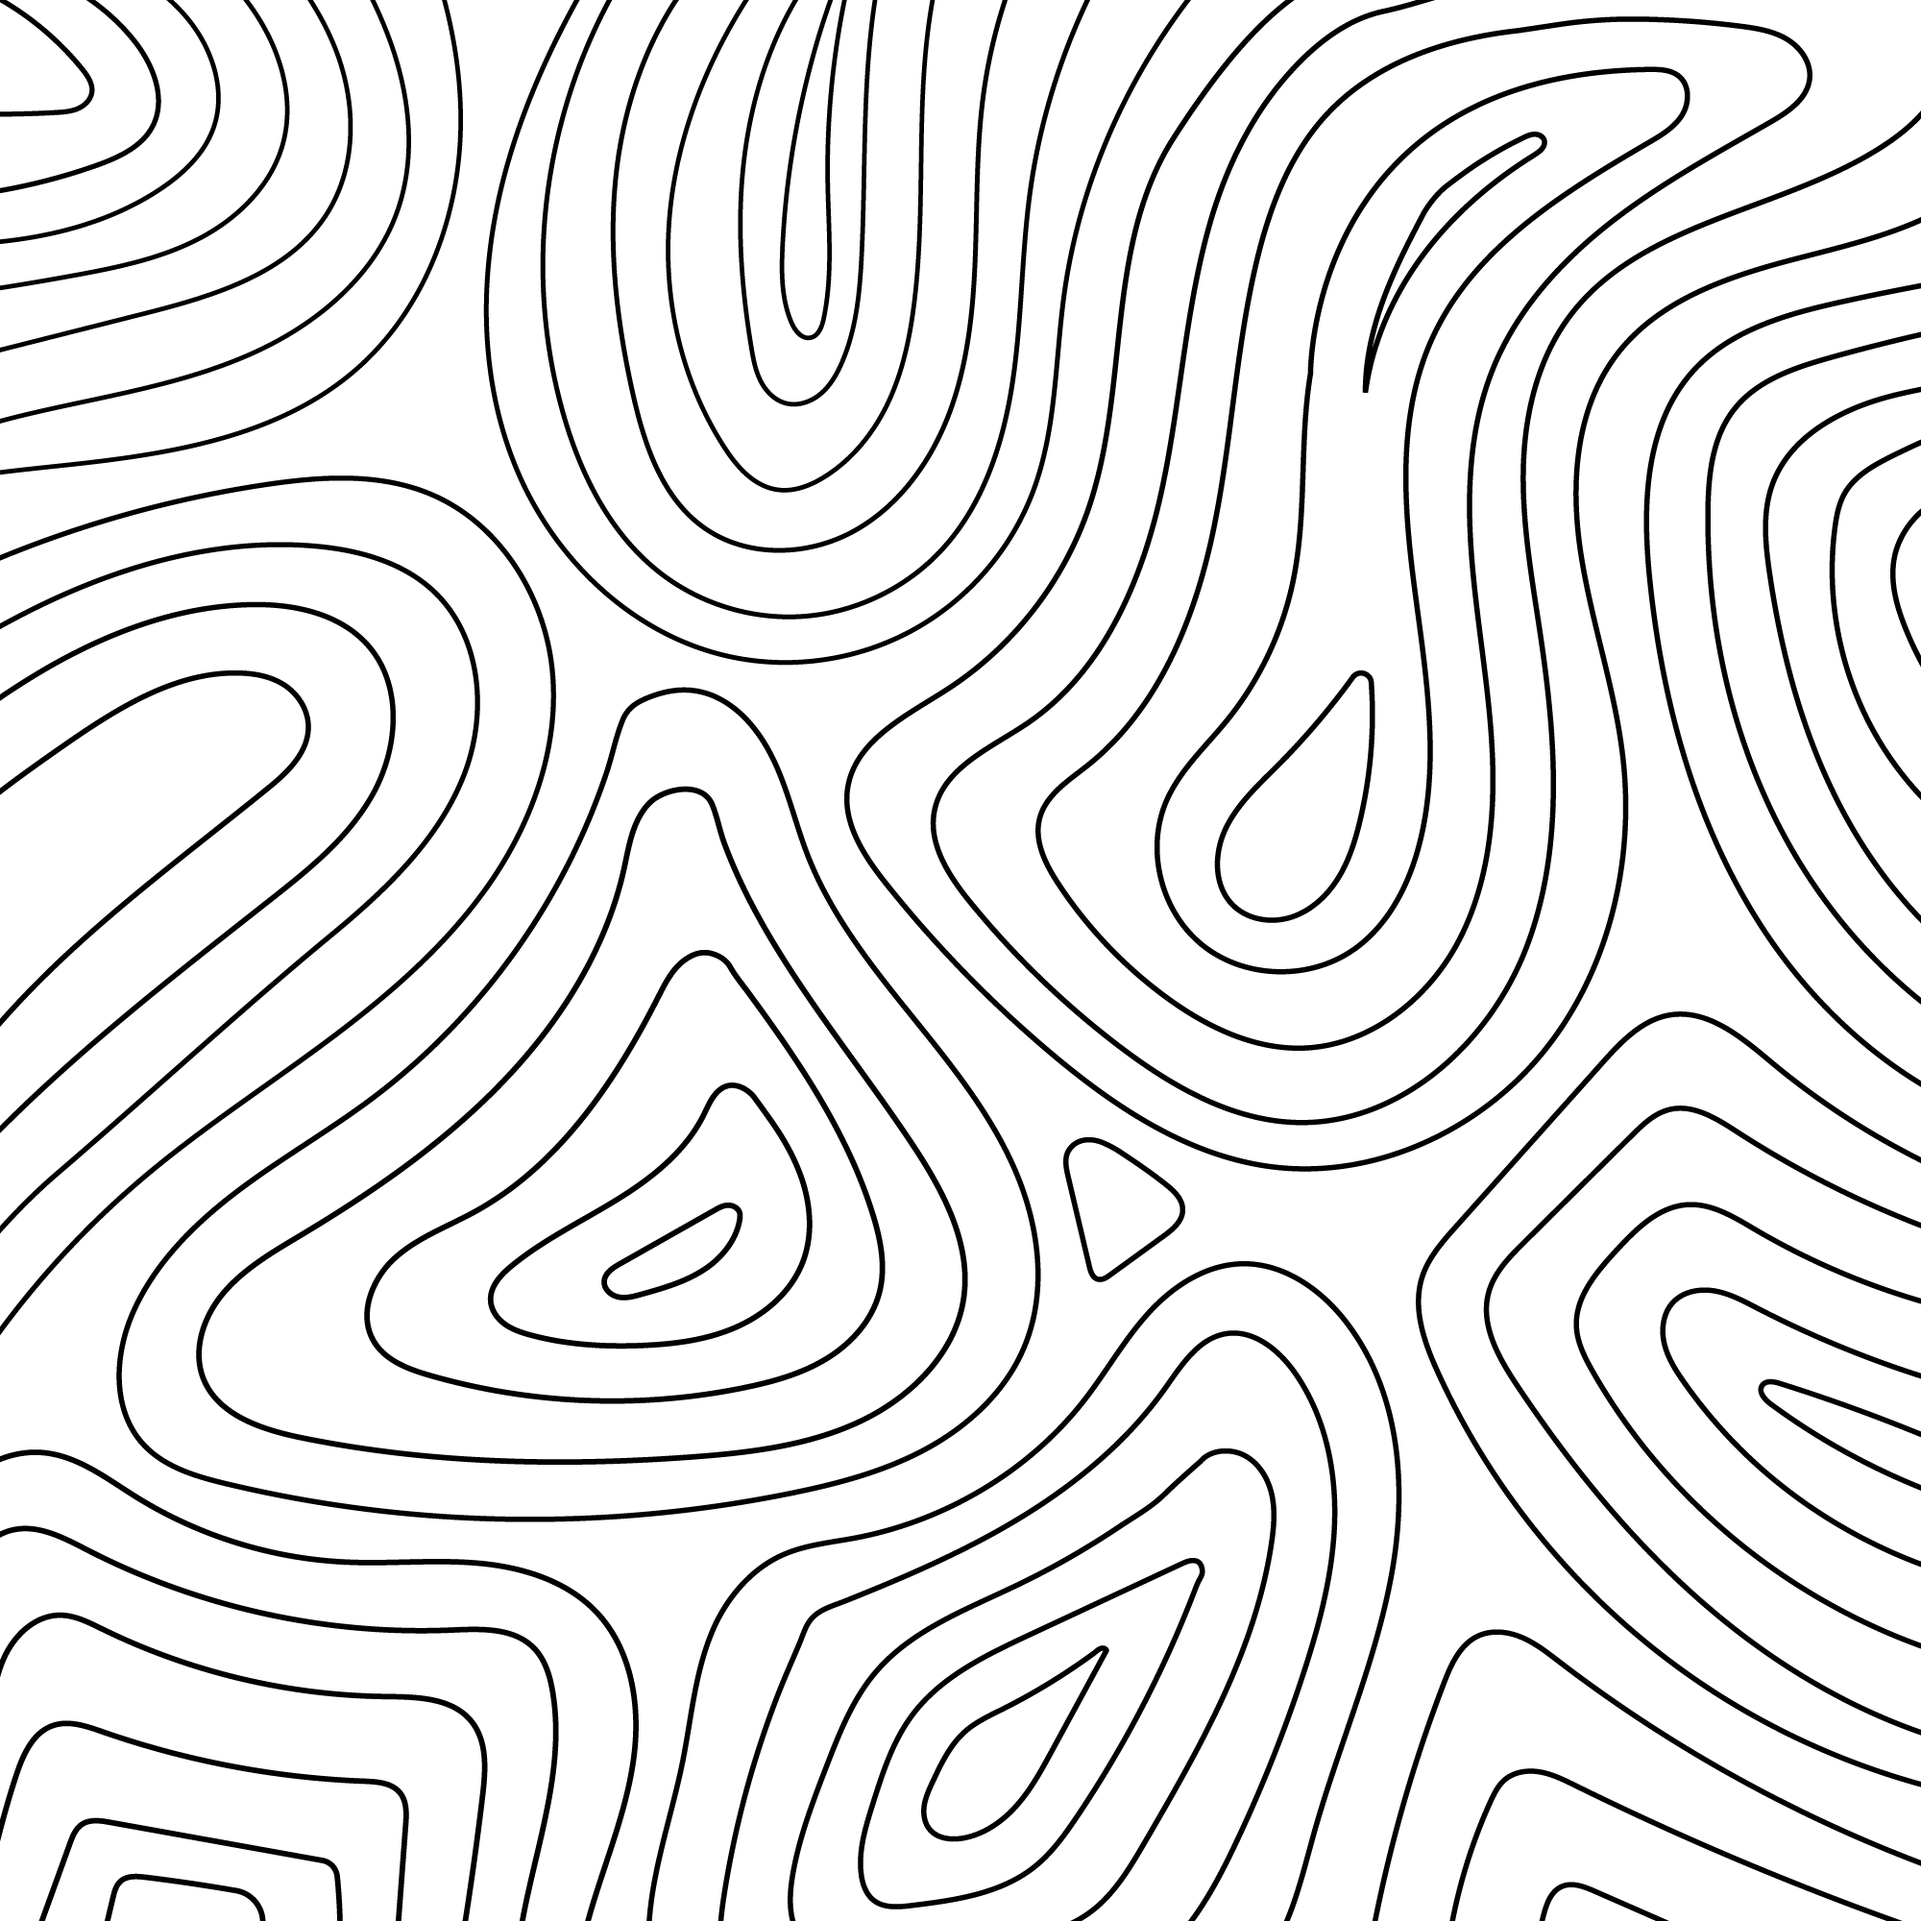
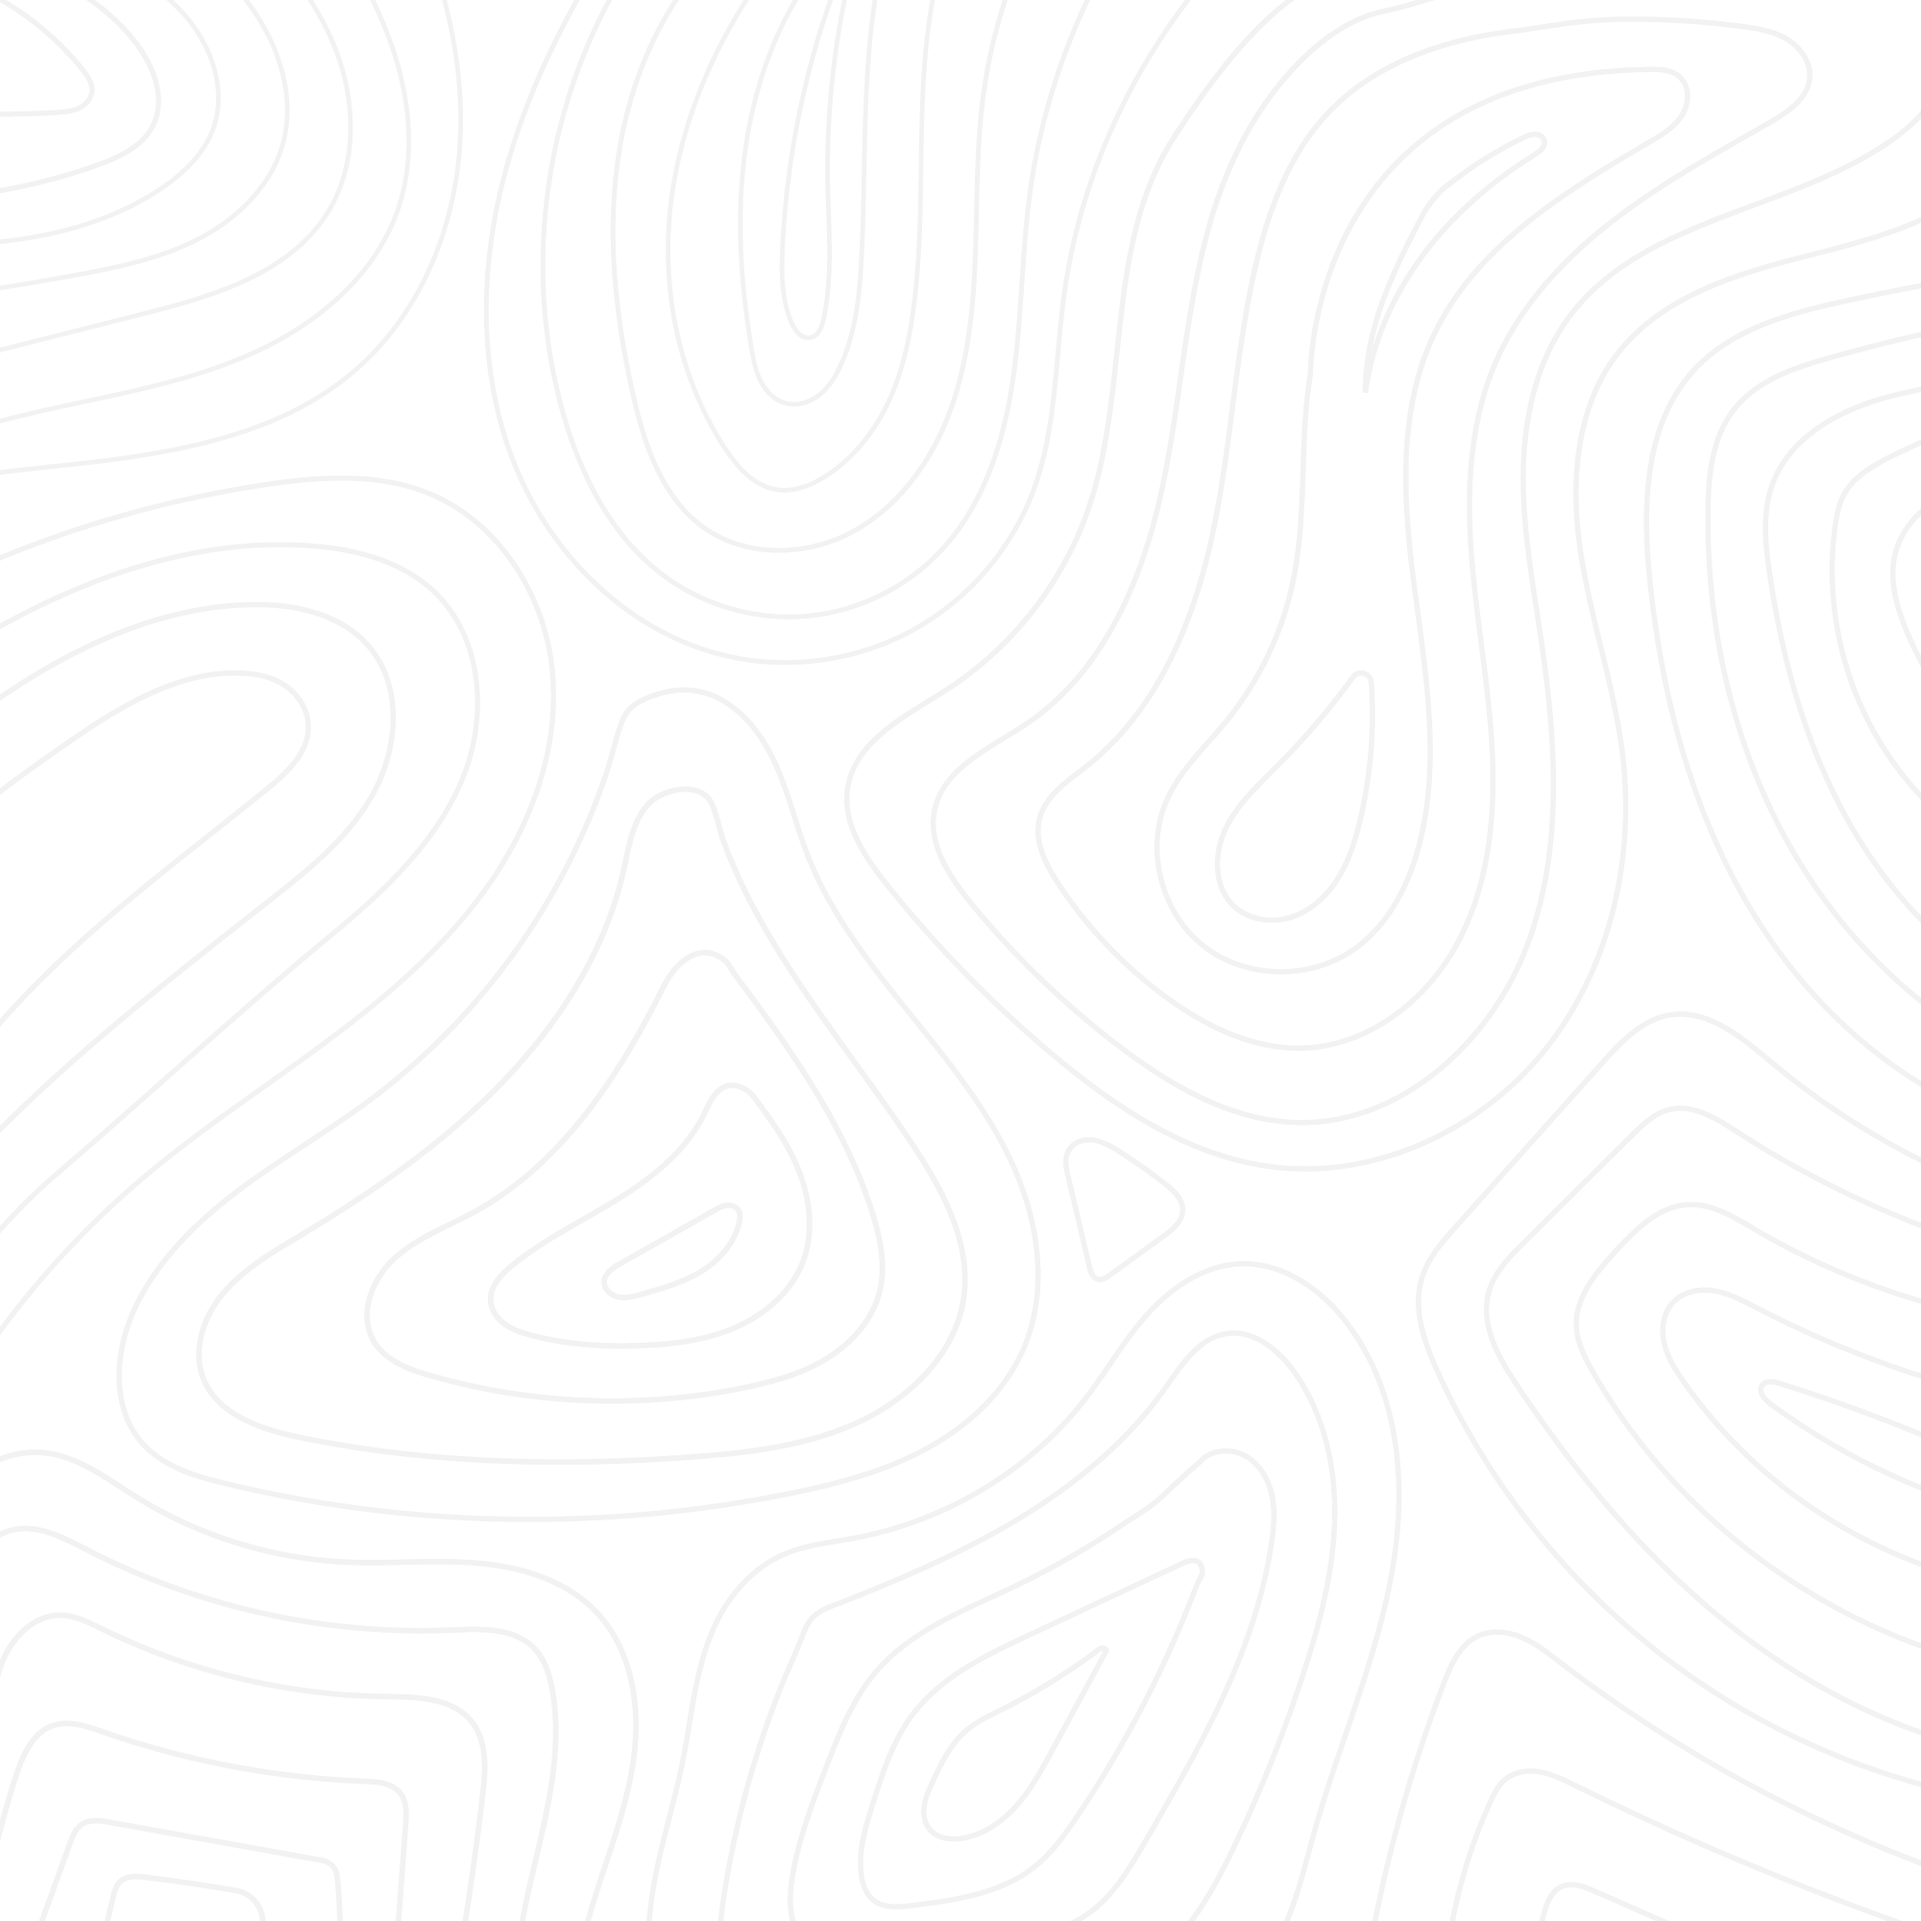
some changes in the login page right side content done on 01/03/2025 at 08:37 pm

diff --git a/src/pages/LoginPage.jsx b/src/pages/LoginPage.jsx
@@ -17,14 +17,12 @@ const LoginPage = () => {
                                     </div>
                                 </div>
                             </div>
-                            <div className="w-full h-[350px] bg-pattern bg-cover bg-center bg-no-repeat relative md:min-h-full">
-                                <div className="w-full h-full absolute top-0 left-0 bg-white/95 p-6">
-                                    <div className="w-full">
-                                        <h3 className="font-roboto text-head-charleston-green text-3xl font-bold uppercase">Login</h3>
-                                    </div>
-                                    <div className="w-full mt-7">
-                                        <LoginForm></LoginForm>
-                                    </div>
+                            <div className="w-full min-h-[240px] bg-pattern bg-cover bg-center bg-no-repeat p-6 md:min-h-full">
+                                <div className="w-full">
+                                    <h3 className="font-roboto text-head-charleston-green text-3xl font-bold uppercase">Login</h3>
+                                </div>
+                                <div className="w-full mt-7">
+                                    <LoginForm></LoginForm>
                                 </div>
                             </div>
                         </div>
